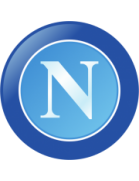
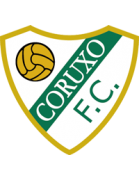
Fixed bug with shields

diff --git a/src/stats/view/AppController.java b/src/stats/view/AppController.java
@@ -618,13 +618,18 @@ public class AppController implements Initializable{
 	}
 	
 	public void onClickEventOnMatches(MouseEvent event) throws DAOException, IOException {
+		League league = comboBoxLeaguesMatches.getSelectionModel().getSelectedItem();
+		System.out.println("League selected: " + league.getFullname());
 		Match match = listMatches.getSelectionModel().getSelectedItem();
+		System.out.println("Match selected: " + match);
 		labelResultMatch.setText(match.toString().toUpperCase());
 		inizializeTableMatches(match);
 		Team teamHomeMatch = new Team();
 		Team teamAwayMatch = new Team();
 		teamHomeMatch.setName(match.getNameHome());
+		teamHomeMatch.setChampionshipCode(league.getChampionshipCode());
 		teamAwayMatch.setName(match.getNameAway());
+		teamAwayMatch.setChampionshipCode(league.getChampionshipCode());
 		System.out.println(teamHomeMatch.getName());
 		String shieldHome = App.getSharedInstance().getDaoTeam().retrieveShield(teamHomeMatch);
 		System.out.println("Shield: "+ shieldHome);
@@ -651,6 +656,10 @@ public class AppController implements Initializable{
 		
 	}
 	public void inizializeTableMatches(Match match) {
+		if (match.getListOfStatistics().isEmpty()) {
+			System.out.println("No statistics for this match");
+			return;
+		}
 		List<MatchPerformanceTable> matchPerformanceTables = match.getListOfStatistics();
 		columnHome.setCellValueFactory(cellData -> cellData.getValue().getHome());
 		columnStatistics.setCellValueFactory(cellData -> cellData.getValue().getStatistic());

diff --git a/src/stats/model/Match.java b/src/stats/model/Match.java
@@ -64,7 +64,7 @@ public class Match {
 	public List<Match> retrieveMatchFromRound(String round) {
 		List<Match> matches = new ArrayList<>();
 		
-		return null;
+		return matches;
 		
 	}
 	
@@ -295,6 +295,9 @@ public class Match {
 		
 		List<MatchPerformanceTable> statistics = new ArrayList<MatchPerformanceTable>();
 		
+		if (this.possesionBallHome == null || this.possesionBallAway == null) {
+			return statistics;
+		}
 		MatchPerformanceTable ballPossession = new MatchPerformanceTable(); 
 		MatchPerformanceTable shotsOnGoal = new MatchPerformanceTable(); 
 		MatchPerformanceTable cornerKiks = new MatchPerformanceTable(); 

diff --git a/src/stats/persistence/mongo/DAOTeamMongo.java b/src/stats/persistence/mongo/DAOTeamMongo.java
@@ -502,6 +502,7 @@ public class DAOTeamMongo implements IDAOTeam {
 			System.out.println("Team name to retrieve: " + name);
 			Document filter = new Document();
 			filter.append("name", Pattern.compile(".*" + name + ".*" , Pattern.CASE_INSENSITIVE));
+			filter.append("championshipCode", team.getChampionshipCode());
 			System.out.println("Filter: \n" + filter.toJson());
 			Document projection = new Document();
 			projection.append("shield", 1);
